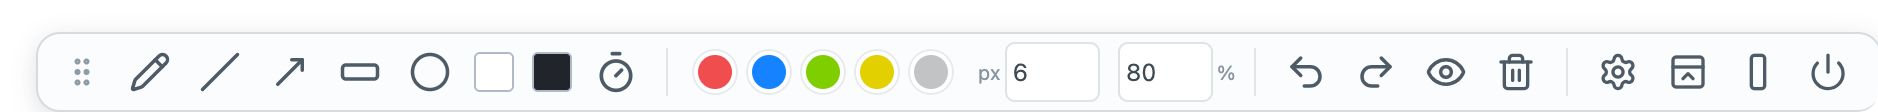
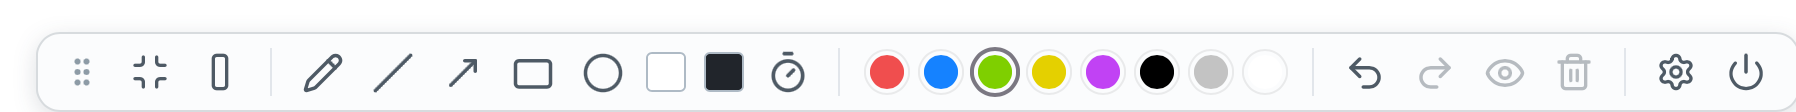
docs: update pictures

Changed region(s): [[0.0312, 0.375, 0.9978, 0.9107], [0.9978, 0.8839, 1.0, 0.9375]]

diff --git a/README.md b/README.md
@@ -4,7 +4,7 @@ TeachersPen lets you draw and write over your desktop while the applications und
 
 Designed for teachers and educators, it is also useful for demonstrations, tutorials, and screen sharing.
 
-![TeachersPen annotations over the Blender website, showing freehand marks, an arrow, a rectangle, and a circle](docs/images/example_blender.png)
+![TeachersPen annotations over the Blender website, showing freehand marks, an arrow, a rectangle, and a circle](docs/images/example_blender2.png)
 
 ## What you can do
 
